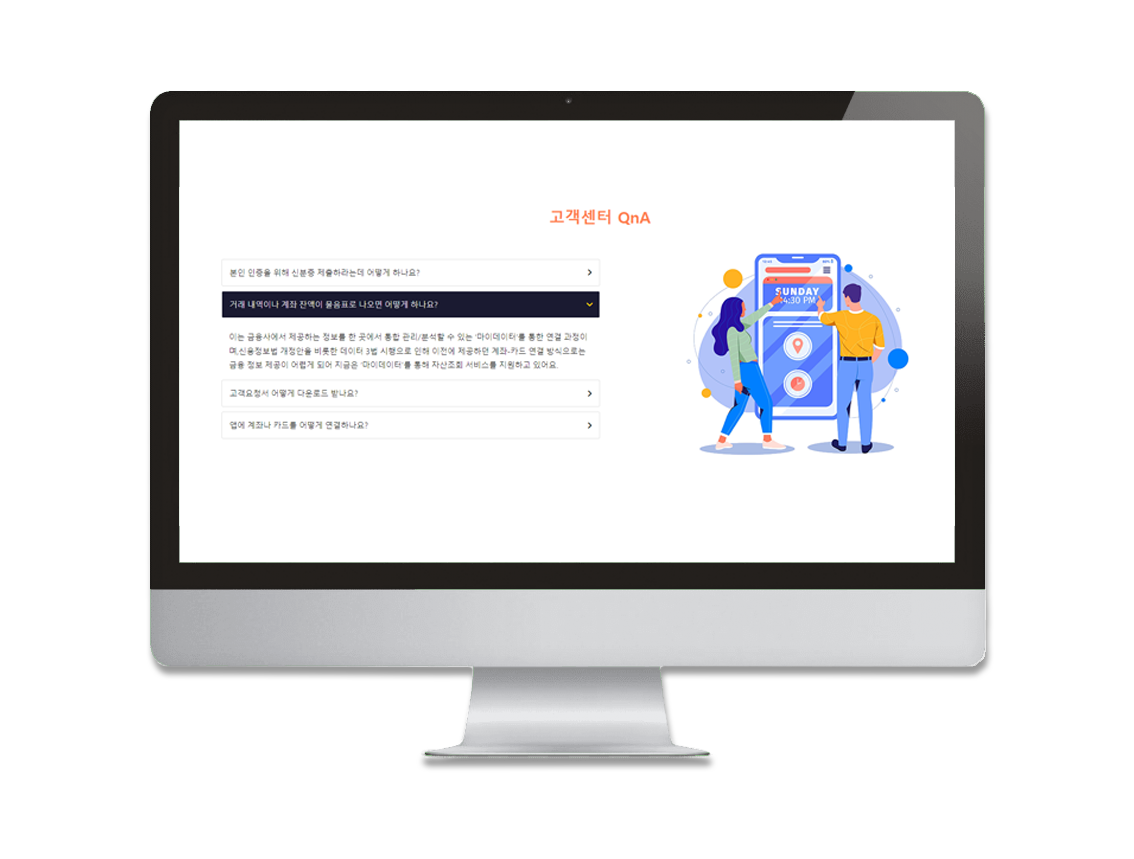
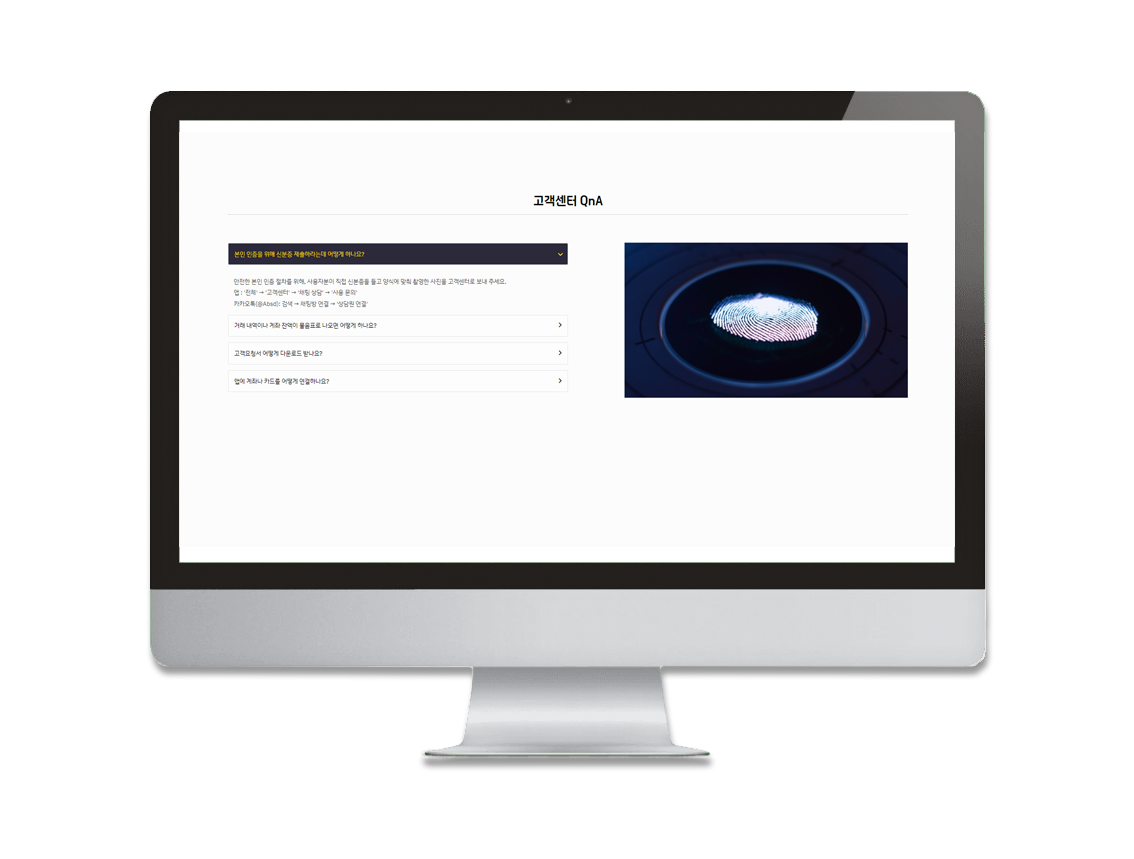
TIL

Changed region(s): [[0.1852, 0.2119, 0.8025, 0.5448]]

diff --git a/slider/index.html b/slider/index.html
@@ -1,0 +1,94 @@
+<!DOCTYPE html>
+<html lang="en">
+  <head>
+    <meta charset="UTF-8" />
+    <meta http-equiv="X-UA-Compatible" content="IE=edge" />
+    <meta name="viewport" content="width=device-width, initial-scale=1.0" />
+    <link rel="stylesheet" href="style.css" />
+    <link rel="stylesheet" href="responsive.css" />
+    <script src="https://code.jquery.com/jquery-latest.min.js"></script>
+    <title>Document</title>
+  </head>
+  <body>
+    <section>
+      <article>
+        <div class="heading">
+          <h1>고객센터 QnA</h1>
+        </div>
+        <div class="content">
+          <div class="accordion">
+            <div class="title" data-image="images/app-capture-01.png">
+              <p>본인 인증을 위해 신분증 제출하라는데 어떻게 하나요?</p>
+              <i class="fa-solid fa-angle-right"></i>
+            </div>
+            <div class="desc">
+              안전한 본인 인증 절차를 위해, 사용자분이 직접 신분증을 들고 양식에
+              맞춰 촬영한 사진을 고객센터로 보내 주세요.
+              <br />
+              앱 : '전체' → '고객센터' → '채팅 상담' → '사용 문의' <br />
+              카카오톡(@Absd): 검색 → 채팅방 연결 → '상담원 연결'
+            </div>
+            <div class="title" data-image="images/app-capture-02.png">
+              <p>거래 내역이나 계좌 잔액이 물음표로 나오면 어떻게 하나요?</p>
+              <i class="fa-solid fa-angle-right"></i>
+            </div>
+            <div class="desc">
+              이는 금융사에서 제공하는 정보를 한 곳에서 통합 관리/분석할 수 있는
+              ‘마이데이터’를 통한 연결 과정이며,신용정보법 개정안을 비롯한
+              <br />
+              데이터 3법 시행으로 인해 이전에 제공하던 계좌-카드 연결 방식으로는
+              금융 정보 제공이 어렵게 되어 <br />
+              지금은 ‘마이데이터’를 통해 자산조회 서비스를 지원하고 있어요.
+            </div>
+            <div class="title" data-image="images/app-capture-03.png">
+              <p>고객요청서 어떻게 다운로드 받나요?</p>
+              <i class="fa-solid fa-angle-right"></i>
+            </div>
+            <div class="desc">
+              고객요청서는 계정 잠금/계정 잠금 해제, 머니 반환 등 다양한 업무
+              처리에 쓰는 서류에요. <br />
+              고객요청서(일반용) PDF 다운로드.pdf <br />
+              고객요청서에 인감 또는 서명을 하는 경우 제출 서류를 일치시켜서
+              보내주세요. <br />
+              - 인감날인 시, 인감증명서 필수 <br />
+              - 서명 날인 시, 본인서명사실확인서 필수
+            </div>
+            <div class="title" data-image="images/app-capture-04.png">
+              <p>앱에 계좌나 카드를 어떻게 연결하나요?</p>
+              <i class="fa-solid fa-angle-right"></i>
+            </div>
+            <div class="desc">
+              마이데이터를 이용한 자산 연결 방법을 알려드릴게요. <br />
+
+              자산을 연결하기 위해서는 인증서를 발급하거나, 사용하던
+              공동인증서를 앱에 저장해 주세요. <br />
+
+              [ 공동인증서 불러오기 ]
+            </div>
+          </div>
+          <div class="image">
+            <img src="images/app-capture-01.png" alt="" />
+          </div>
+        </div>
+      </article>
+    </section>
+
+    <script>
+      $(".title").click(function () {
+        $(this).toggleClass("active");
+        $(this).siblings(".title").removeClass("active");
+        // .stop()는 애니메이션 동작을 끊어줘서 여러번 반복안하게 해줌
+        $(this).siblings(".desc").stop().slideUp();
+        // .next는 바로옆에 아이를 선택함
+        $(this).next(".desc").stop().slideToggle();
+        const dataImage = $(this).attr("data-image");
+        $(".image img").attr("src", dataImage);
+      });
+    </script>
+
+    <script
+      src="https://kit.fontawesome.com/fed145381f.js"
+      crossorigin="anonymous"
+    ></script>
+  </body>
+</html>

diff --git a/slider/style.css b/slider/style.css
@@ -1,0 +1,110 @@
+@font-face {
+  font-family: "EliceDigitalBaeum-Bd";
+  src: url("https://cdn.jsdelivr.net/gh/projectnoonnu/noonfonts_elice@1.0/EliceDigitalBaeum-Bd.woff2")
+    format("woff2");
+  font-weight: normal;
+  font-style: normal;
+}
+@font-face {
+  font-family: "IBMPlexSansKR-Regular";
+  src: url("https://cdn.jsdelivr.net/gh/projectnoonnu/noonfonts_20-07@1.0/IBMPlexSansKR-Regular.woff")
+    format("woff");
+  font-weight: normal;
+  font-style: normal;
+}
+* {
+  box-sizing: border-box;
+}
+body {
+  margin: 0;
+  font-weight: 300;
+  background-color: rgb(252, 252, 252);
+}
+
+/* Layout */
+section {
+  display: flex;
+  align-items: center;
+  justify-content: center;
+  width: 100%;
+  height: 80vh;
+}
+section article {
+  width: 75%;
+  align-items: center;
+}
+.heading {
+  border-bottom: 1px dotted rgba(0, 0, 0, 0.3);
+  padding-bottom: 15px;
+  text-align: center;
+}
+.heading h1 {
+  color: rgb(15, 13, 2);
+  font-size: 32px;
+  margin-bottom: 30px;
+  font-family: "EliceDigitalBaeum-Bd";
+  margin: 0;
+}
+.desc {
+  line-height: 1.8em;
+  font-size: 16px;
+  color: rgb(71, 71, 71);
+}
+.content {
+  width: 100%;
+  display: flex;
+  align-items: center;
+  justify-content: center;
+  font-family: "IBMPlexSansKR-Regular";
+}
+/*>는 content 바로밑에 div를 선택한다  */
+.content > div {
+  width: 50%;
+  float: left;
+  box-sizing: border-box;
+  margin-top: 20px;
+  min-height: 520px;
+}
+.accordion {
+  display: flex;
+  flex-direction: column;
+  justify-content: center;
+}
+.title {
+  display: flex;
+  align-items: center;
+  justify-content: space-between;
+  width: 100%;
+  border: 1px solid rgba(221, 221, 221, 0.7);
+  border-radius: 3px;
+  cursor: pointer;
+  padding: 0 15px;
+  box-sizing: border-box;
+  transition: 0.3s;
+  margin-bottom: 15px;
+  background-color: rgba(255, 255, 255, 0.3);
+}
+.title:hover,
+.title.active {
+  background-color: rgb(43, 41, 58);
+  color: gold;
+}
+.title i {
+  transition: 0.3s;
+}
+.title.active i {
+  transform: rotate(90deg);
+  color: gold;
+}
+.desc {
+  padding: 15px;
+  display: none;
+}
+.desc.active {
+  display: block;
+}
+.image {
+  display: flex;
+  align-items: center;
+  justify-content: end;
+}

diff --git a/index.html b/index.html
@@ -280,27 +280,14 @@
           <div class="project" target="blank" data-type="uxui">
             <img class="project__img" src="imgs/works/work-uiux_04.png" alt="" />
             <div class="project__description">
-              <h3>Shinhan DS</h3>
-              <p>
-                신한DS만의 의류 및 잡화에 관심있는 방문자들을 대상으로 진행중인
-                이벤트나 관련소식등 정보전달과 상품구매등의 이익창출
-              </p>
+              <h3 class="center">QnA</h3>
+             
               <div class="btns">
-                <div class="btn" onclick="window.open('http://naver.com')">
+                <div class="btn" onclick="window.open('./slider/index.html')">
                   web
                 </div>
-                <div class="btn" onclick="window.open('http://naver.com')">
+                <div class="btn" onclick="window.open('./slider/index.html','모바일전용','width=375,height=667,top=100,left=300,scrollbars=no,resizable=no')">
                   mobile
-                </div>
-                <!-- more detail - btn -->
-                <div class="btn">
-                  <a
-                    href="otherworks/detail_01.html"
-                    class="detail-btn"
-                    data-featherlight="iframe"
-                  >
-                    REPORT
-                  </a>
                 </div>
               </div>
             </div>

diff --git a/slider/responsive.css b/slider/responsive.css
@@ -1,0 +1,36 @@
+@media (max-width: 950px) {
+  section {
+    display: block;
+    height: auto;
+    padding: 10px 5px;
+  }
+  section article {
+    width: 100%;
+  }
+  .heading h1 {
+    font-size: 24px;
+  }
+  .desc {
+    font-size: 16px;
+  }
+  .content {
+    flex-direction: column;
+  }
+  .content > div {
+    width: 100%;
+    float: none;
+    min-height: 300px;
+  }
+  .title {
+    font-size: 16px;
+    padding: 0 10px;
+  }
+  .image {
+    order: -1;
+    justify-content: center;
+  }
+  .image img {
+    width: 100%;
+    height: auto;
+  }
+}
